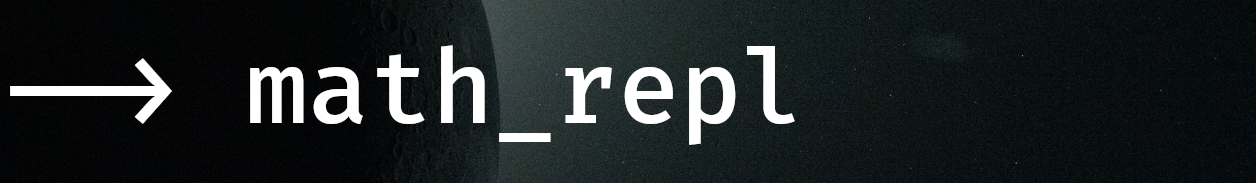
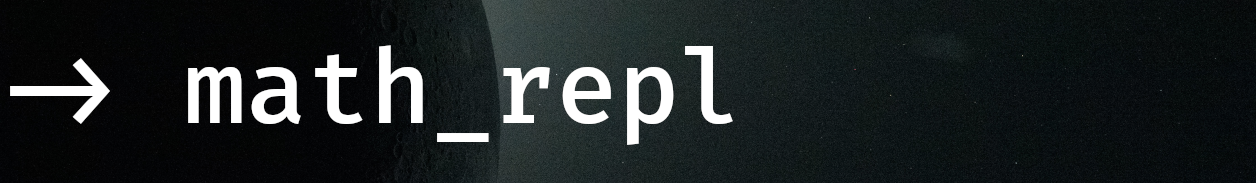
removed export.pdf and updated showcase

Changed region(s): [[0.0311, 0.2459, 0.6521, 0.7923], [0.3416, 0.7104, 0.4658, 0.7923]]

diff --git a/src/message_handler.rs b/src/message_handler.rs
@@ -92,12 +92,15 @@ pub fn handle_message<N: Number>(msg: String, global_state: &mut State<N>, cell_
             "export" | "export --pdf" => {
                 let pdf = export_history(global_state.history.clone(), ExportType::Pdf);
 
-                if let Ok(binary) = pdf {
-                    if let Ok(_) = std::fs::write("export.pdf", binary) {} else {
+                match pdf {
+                    Ok(binary) => {
+                        if let Ok(_) = std::fs::write("export.pdf", binary) {} else {
+                            return Err(HandlerError { message: "Error exporting pdf!".to_string() });
+                        }
+                    },
+                    Err(_) => {
                         return Err(HandlerError { message: "Error exporting pdf!".to_string() });
                     }
-                } else {
-                    return Err(HandlerError { message: "Error exporting pdf!".to_string() });
                 }
 
                 return Ok(Action::Print("Exported to export.pdf!".to_string()));

diff --git a/README.md b/README.md
@@ -2,7 +2,9 @@
 
 [![crates.io](https://img.shields.io/badge/crates.io-orange?style=for-the-badge&logo=rust)](https://crates.io/crates/math_repl)
 
-math_repl is a REPL/CLI that allows a user to quickly calculate expressions, work with variables as well as various other useful math tools such as integration, an equation solver, etc. Math_repl does not only support real/complex numbers but also vectors and matrices. The REPL uses the [kitty image protocol](https://sw.kovidgoyal.net/kitty/graphics-protocol/) when available to render outputs in a nice latex-like manner. If the protocol is not available in your terminal, the REPL will use a much worse looking and less readable simple string output.
+math_repl is a REPL/CLI that allows a user to quickly calculate expressions, work with variables as well as various other useful math tools such as integration, an equation solver, etc. Math_repl does not only support real/complex numbers but also vectors and matrices.
+
+The REPL uses the [kitty image protocol](https://sw.kovidgoyal.net/kitty/graphics-protocol/) when available to render outputs in a nice latex-like manner. If the protocol is not available in your terminal, the REPL will use a much worse looking and less readable string output.
 
 :warning: math_repl is built on top of [math_utils_lib](https://crates.io/crates/math_utils_lib), which has not yet reached 1.0.0. Expect breaking changes and bugs.
 
@@ -18,7 +20,7 @@ You can install math_repl from crates.io.
 cargo install math_repl
 ```
 
-Make sure that ~/.cargo/bin is on PATH.
+Make sure that your .cargo/bin is on PATH.
 
 ## Usage
 Here is some usage information from the help command:
